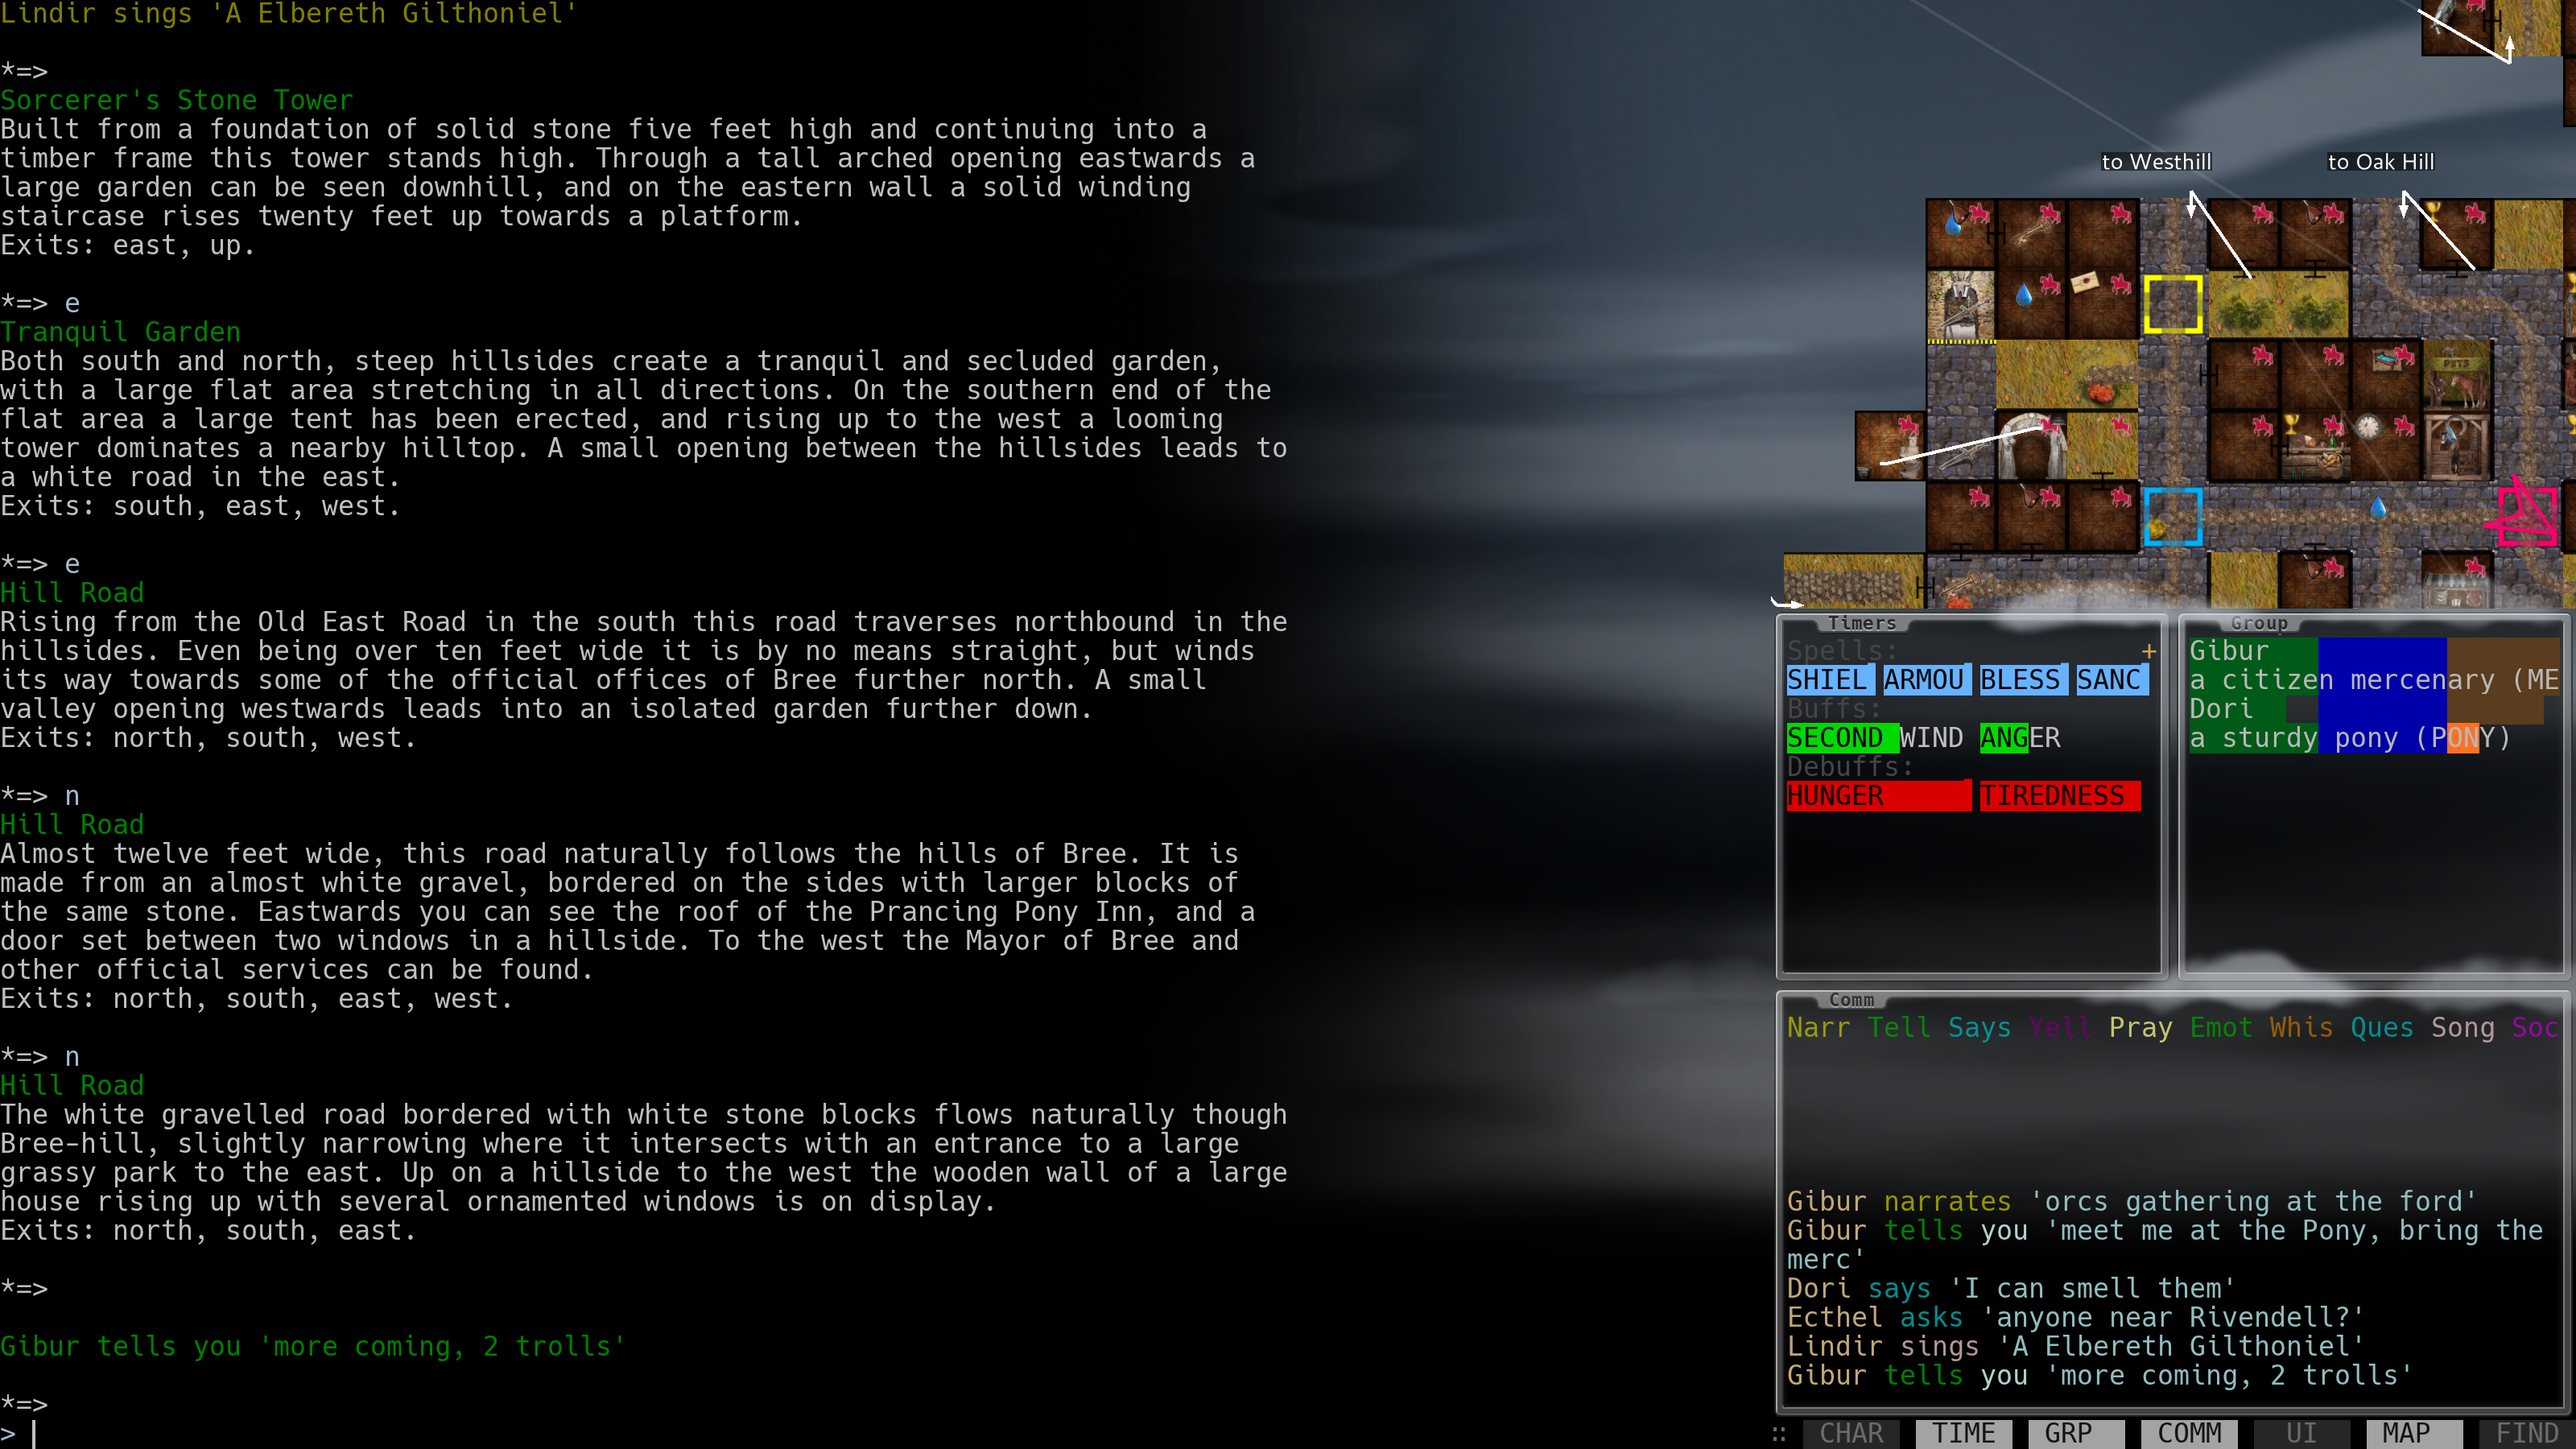
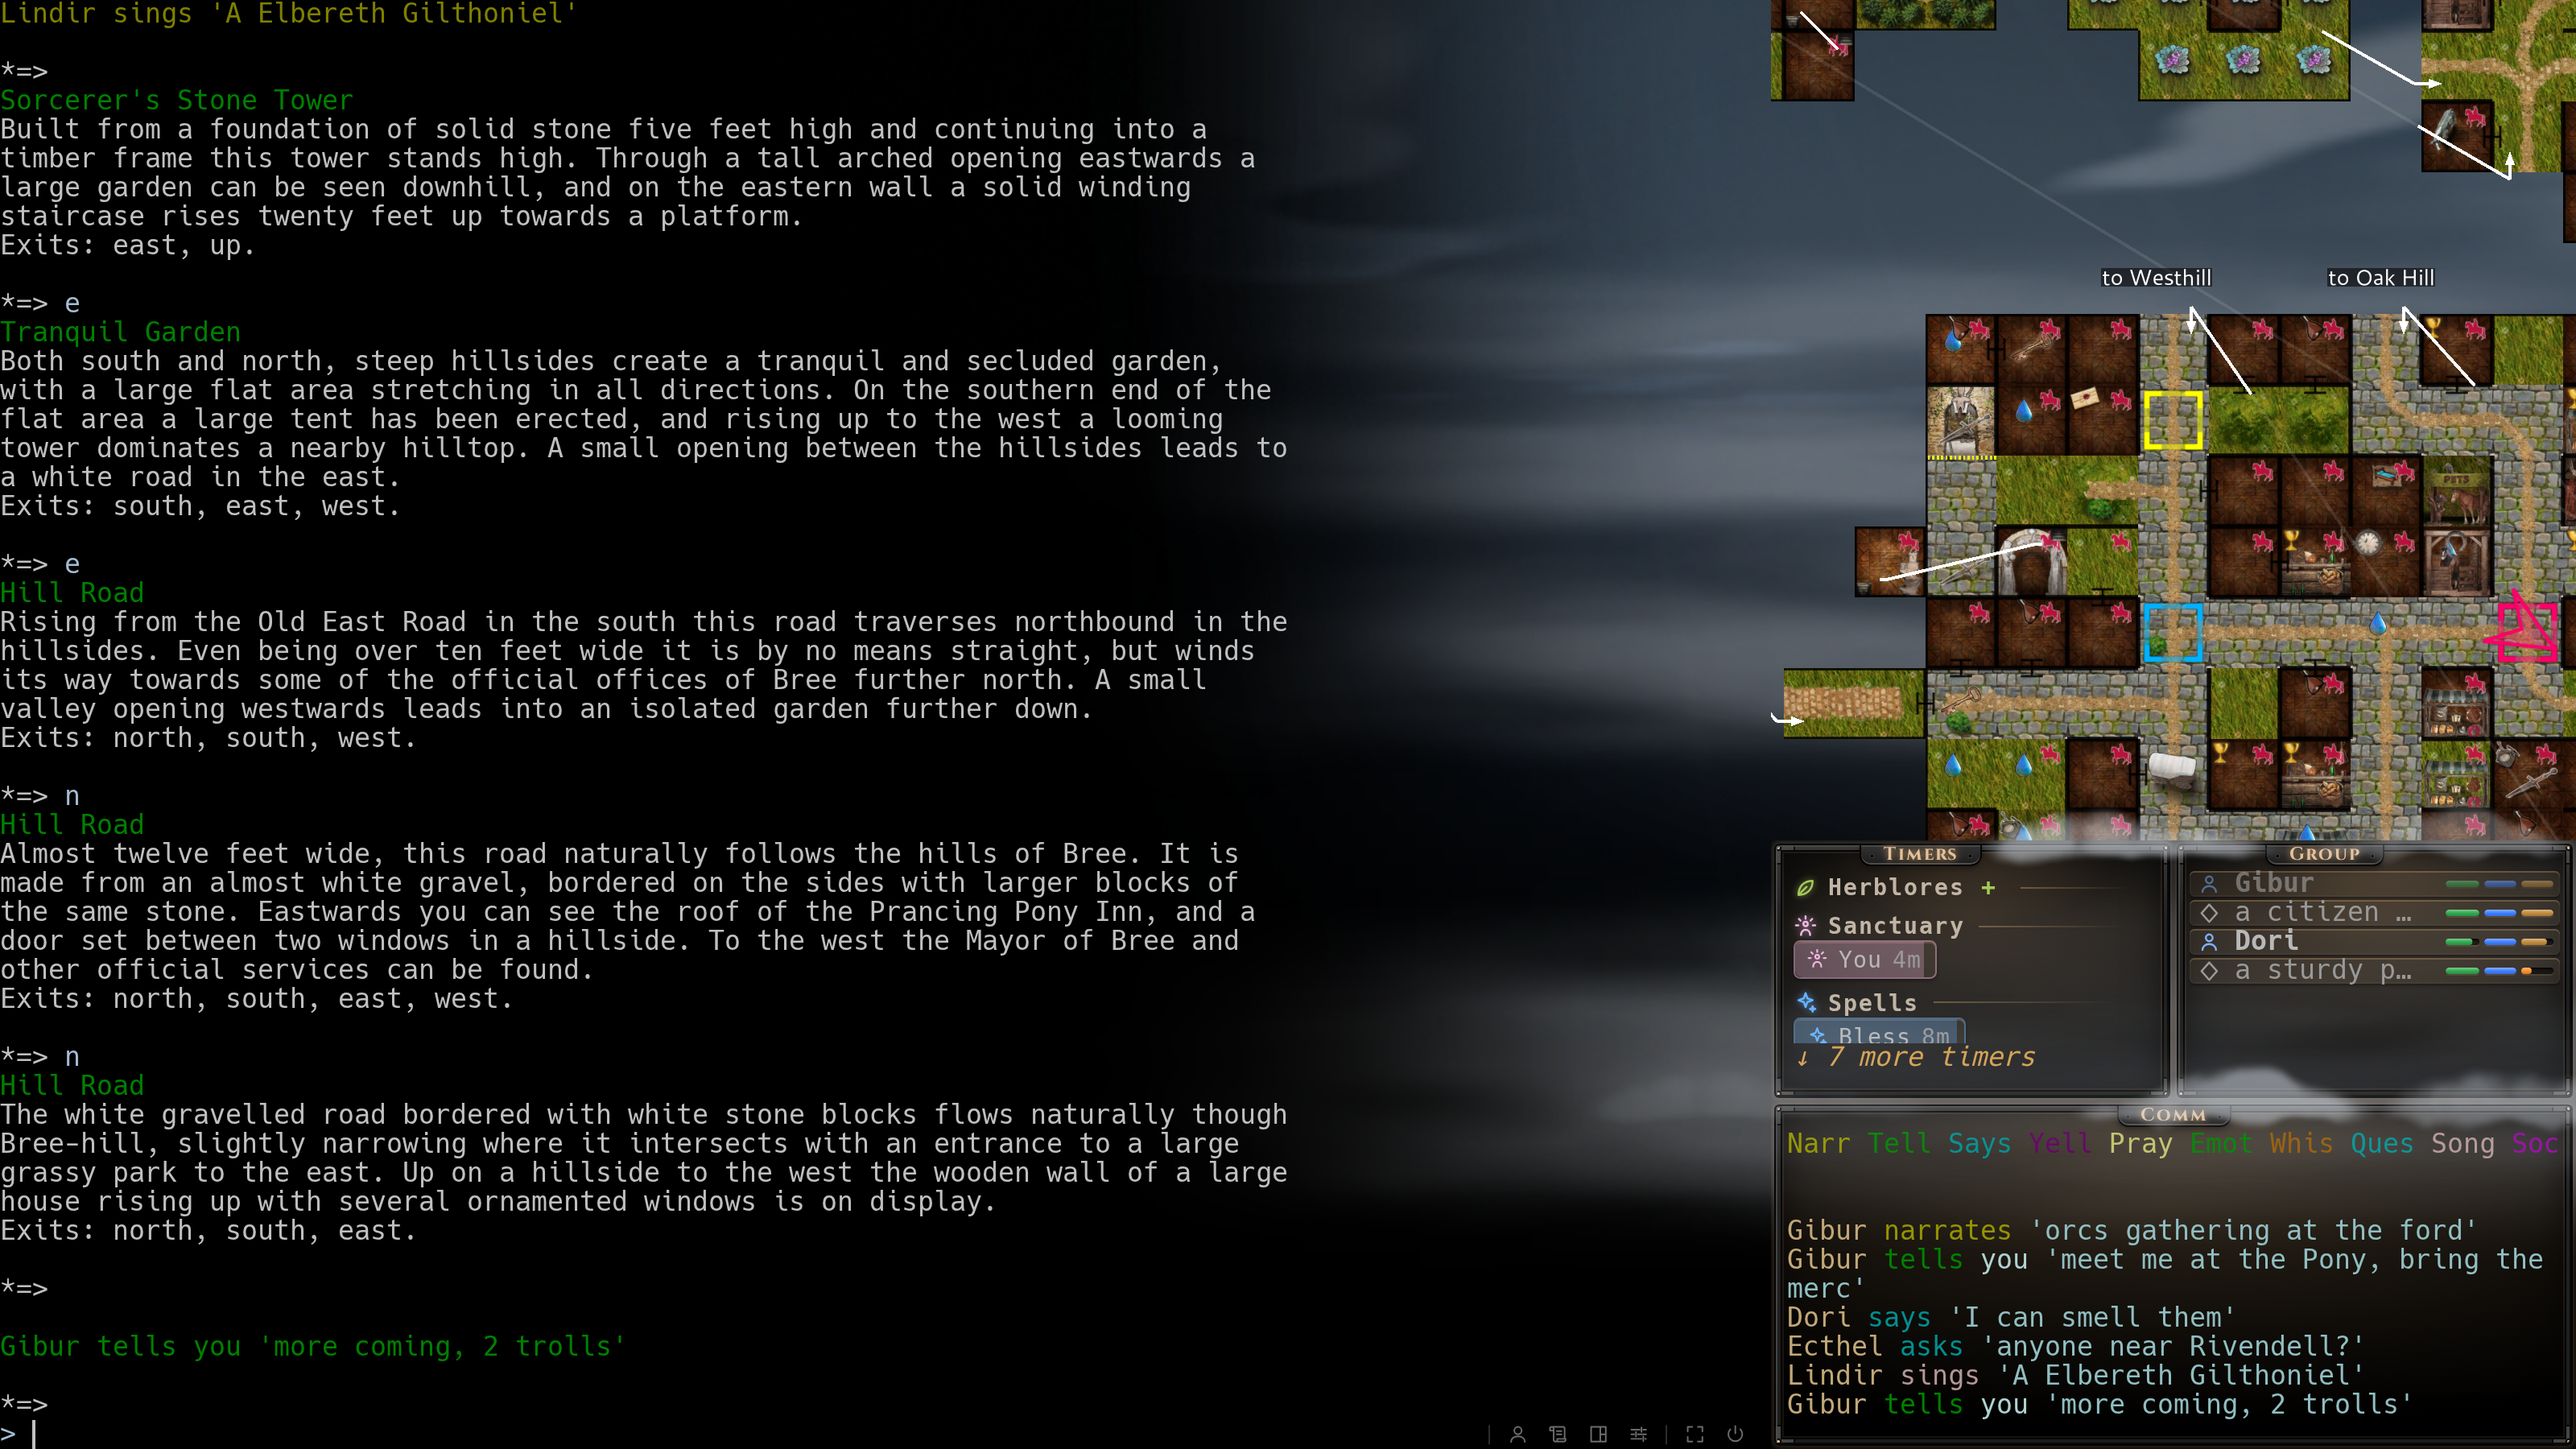
chore: README screenshots in the lantern look; scripts shot follows the Scripts page
Claude-Session: https://claude.ai/code/session_01Fx3riU8x7ShW3abCwZ9RpD

Changed region(s): [[0.6875, 0.0, 1.0, 1.0]]

diff --git a/scripts/screenshots.ts b/scripts/screenshots.ts
@@ -595,7 +595,9 @@ const SHOTS: Record<string, Shot> = {
     }, KILL_COUNTER);
     await page.locator('.wc-start .wc-mrow[data-key="scripts"] .wc-label').click();
     const f = page.locator('.wc-start .wc-frame:not([hidden])');
-    await f.locator('.wc-scr-row[data-script="killcounter"] [data-btn="EDIT"]').click();
+    // Select it in the list, then EDIT in its detail frame (the Scripts page, ADR 0121).
+    await f.locator('.wc-scr-row[data-script="killcounter"] .wc-scr-name').click();
+    await f.locator('.wc-scr-frame [data-btn="EDIT"]').click();
     const ed = page.locator('.wc-frame:not([hidden]) > .wc-sed');
     await ed.locator('.cm-content').waitFor();
     // A new line after the trigger, a call being typed (high enough for the help panel to fit).
